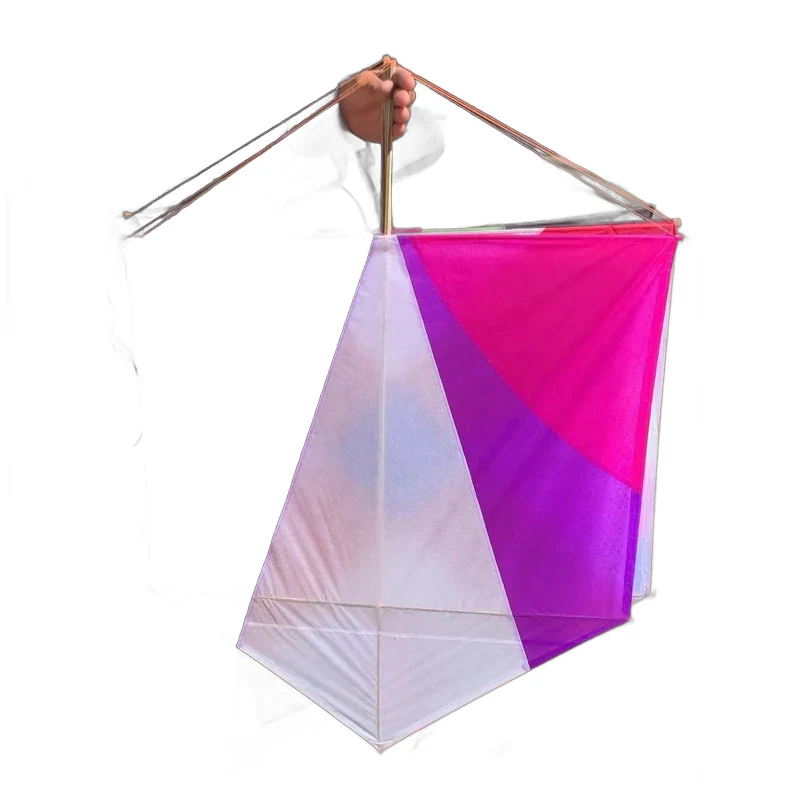
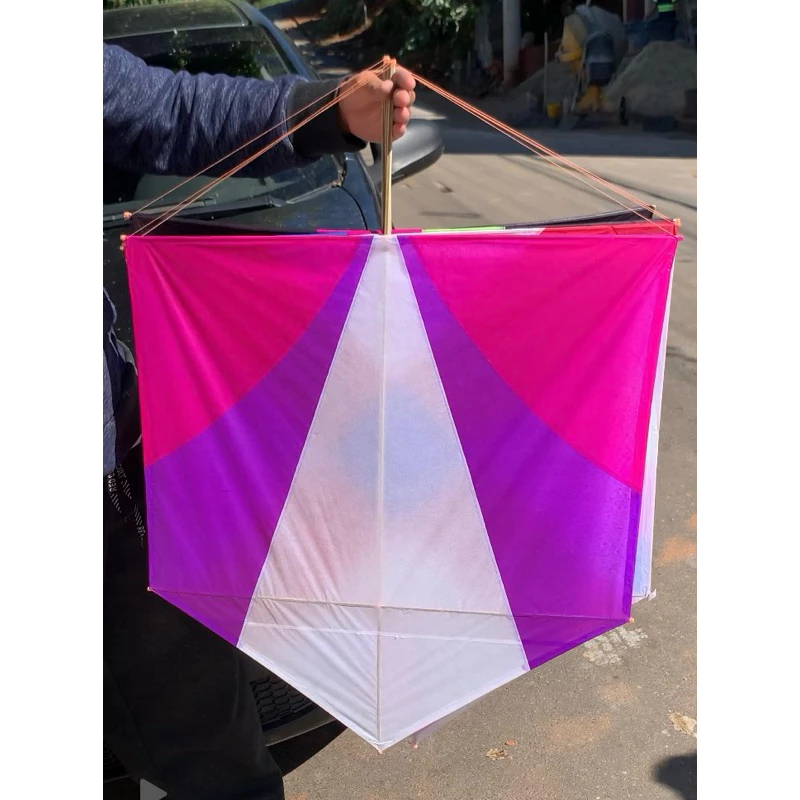
Restaura as originais onde o recorte comeu a haste do topo
27 fotos voltam para a original: as 10 da pipa de latão laminado, as
14 da pipa de latão de seda, a última da tira do corte e recorte 80
cm, e a principal da Baruel e da caçadeira.

O recorte de fundo trata vareta e cabresto do topo como ruído e come
o detalhe, e a pipa fica parecendo quebrada. Isso é alterar o
produto, não remover fundo.

Regra registrada no NOTAS.md: foto de pipa com haste no topo precisa
de conferência específica do topo antes de aprovar. Não dá pra pegar
por número — perder uma vareta de 2 px não move área nem alfa
parcial, e o corpo sai perfeito, então passa numa olhada rápida.

diff --git a/NOTAS.md b/NOTAS.md
@@ -1,5 +1,38 @@
 # Notas do projeto
 
+---
+
+## Recorte de fundo: SEMPRE conferir o topo da pipa
+
+**Regra, aprendida na prática em 14/08/2026.**
+
+Produto com **haste, vareta, cabresto ou estirante no topo** tende a
+perder esse detalhe no recorte automático de fundo. A vareta tem
+poucos pixels e o modelo trata como ruído. O resultado é uma pipa que
+parece **quebrada** — e isso é alterar o produto, não remover fundo.
+
+**Se rodar recorte em foto nova de pipa, conferir especificamente o
+topo antes de aprovar.** Olhar a silhueta inteira não basta: o corpo
+sai perfeito e a haste some, então a foto passa numa olhada rápida.
+
+Não dá pra detectar isso por número: perder uma vareta de 2 px não
+move área nem alfa parcial. **Só olho pega.**
+
+Já aconteceu uma vez: 27 fotos foram publicadas recortadas e tiveram
+que voltar para a original —
+
+| produto | fotos revertidas |
+|---|---|
+| Pipa de latão laminado 60 cm | 10 (todas) |
+| Pipa de latão de seda 60 cm | 14 (todas) |
+| Pipa corte e recorte 80 cm | 1 (a última da tira) |
+| Pipa Baruel 55 cm | 1 (a principal) |
+| Pipa caçadeira 62 cm | 1 (a principal) |
+
+As originais ficam intactas em `fotos-organizadas/produtos/`, que o
+recorte nunca toca. Reverter é copiar de lá para `fotos/produtos/`.
+
+
 Coisas medidas que não estão óbvias no código, e decisões que vão
 voltar à tona depois.
 
